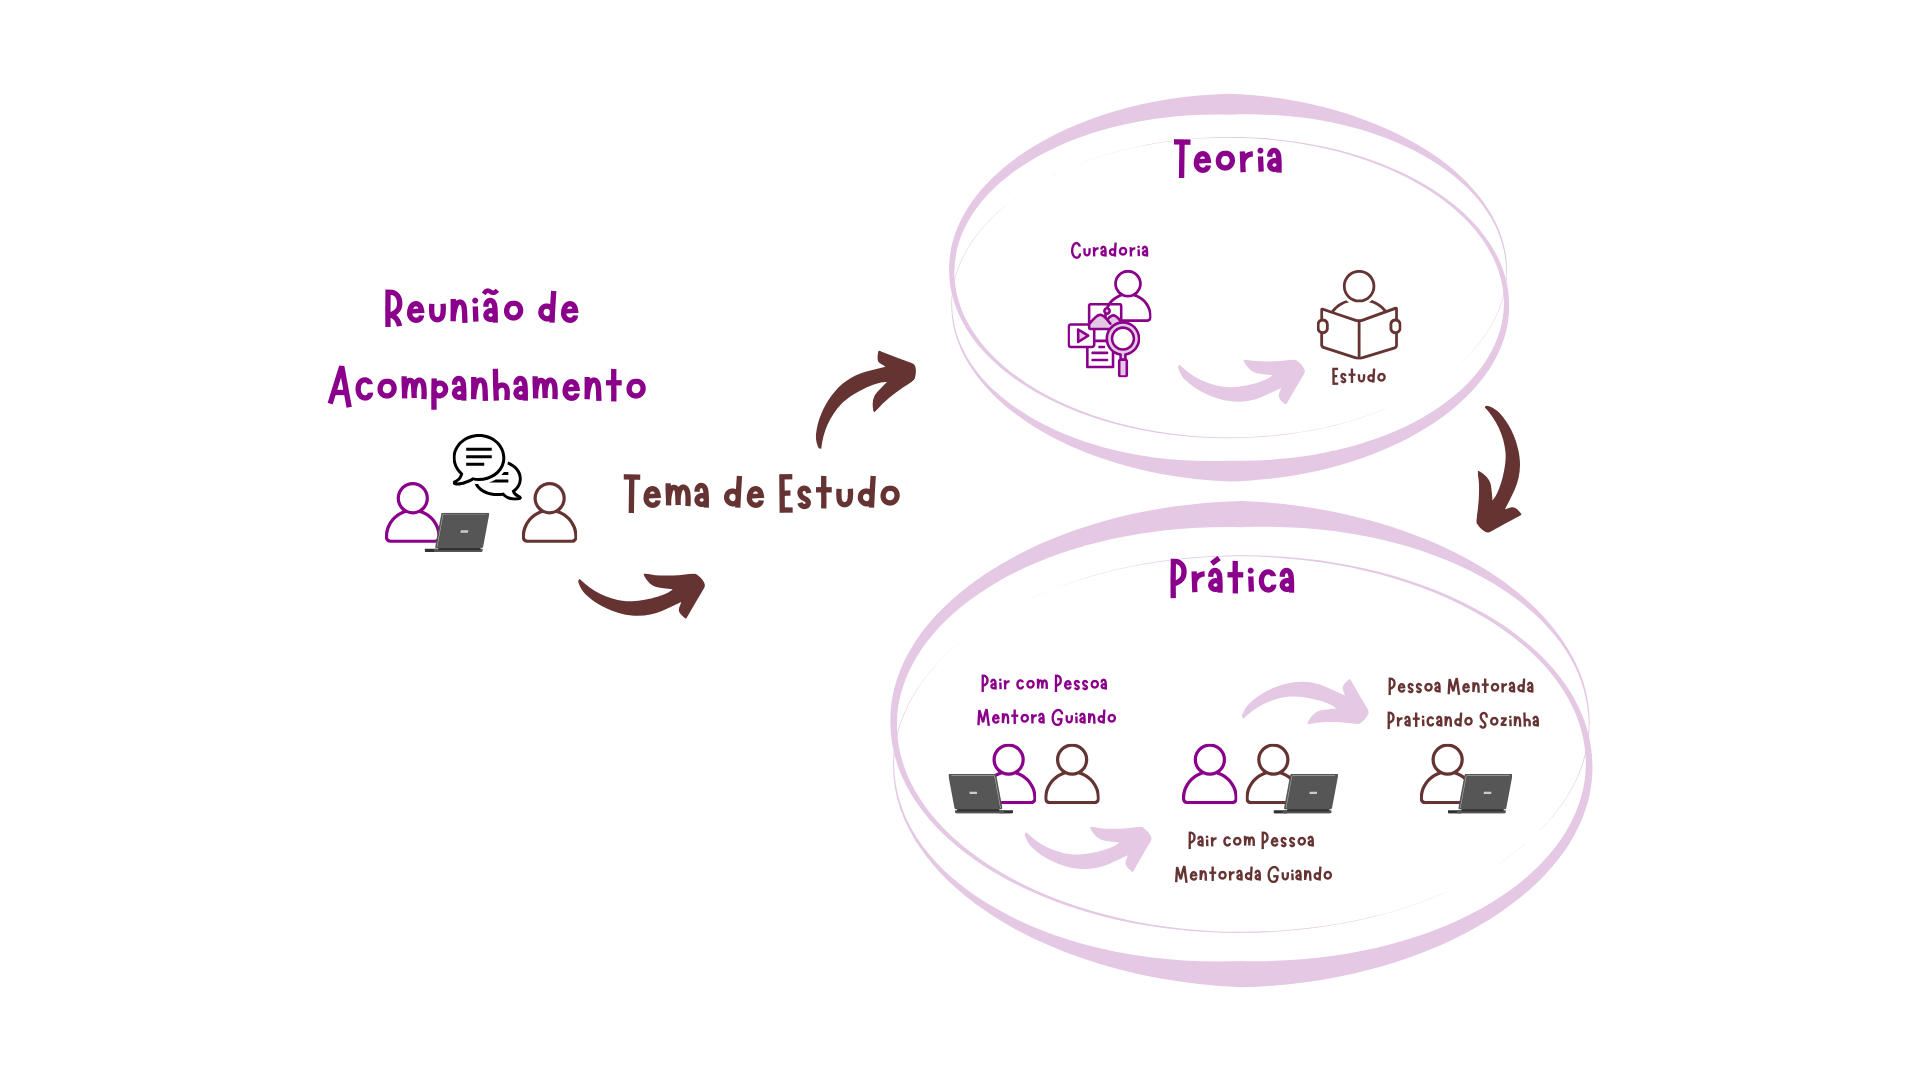
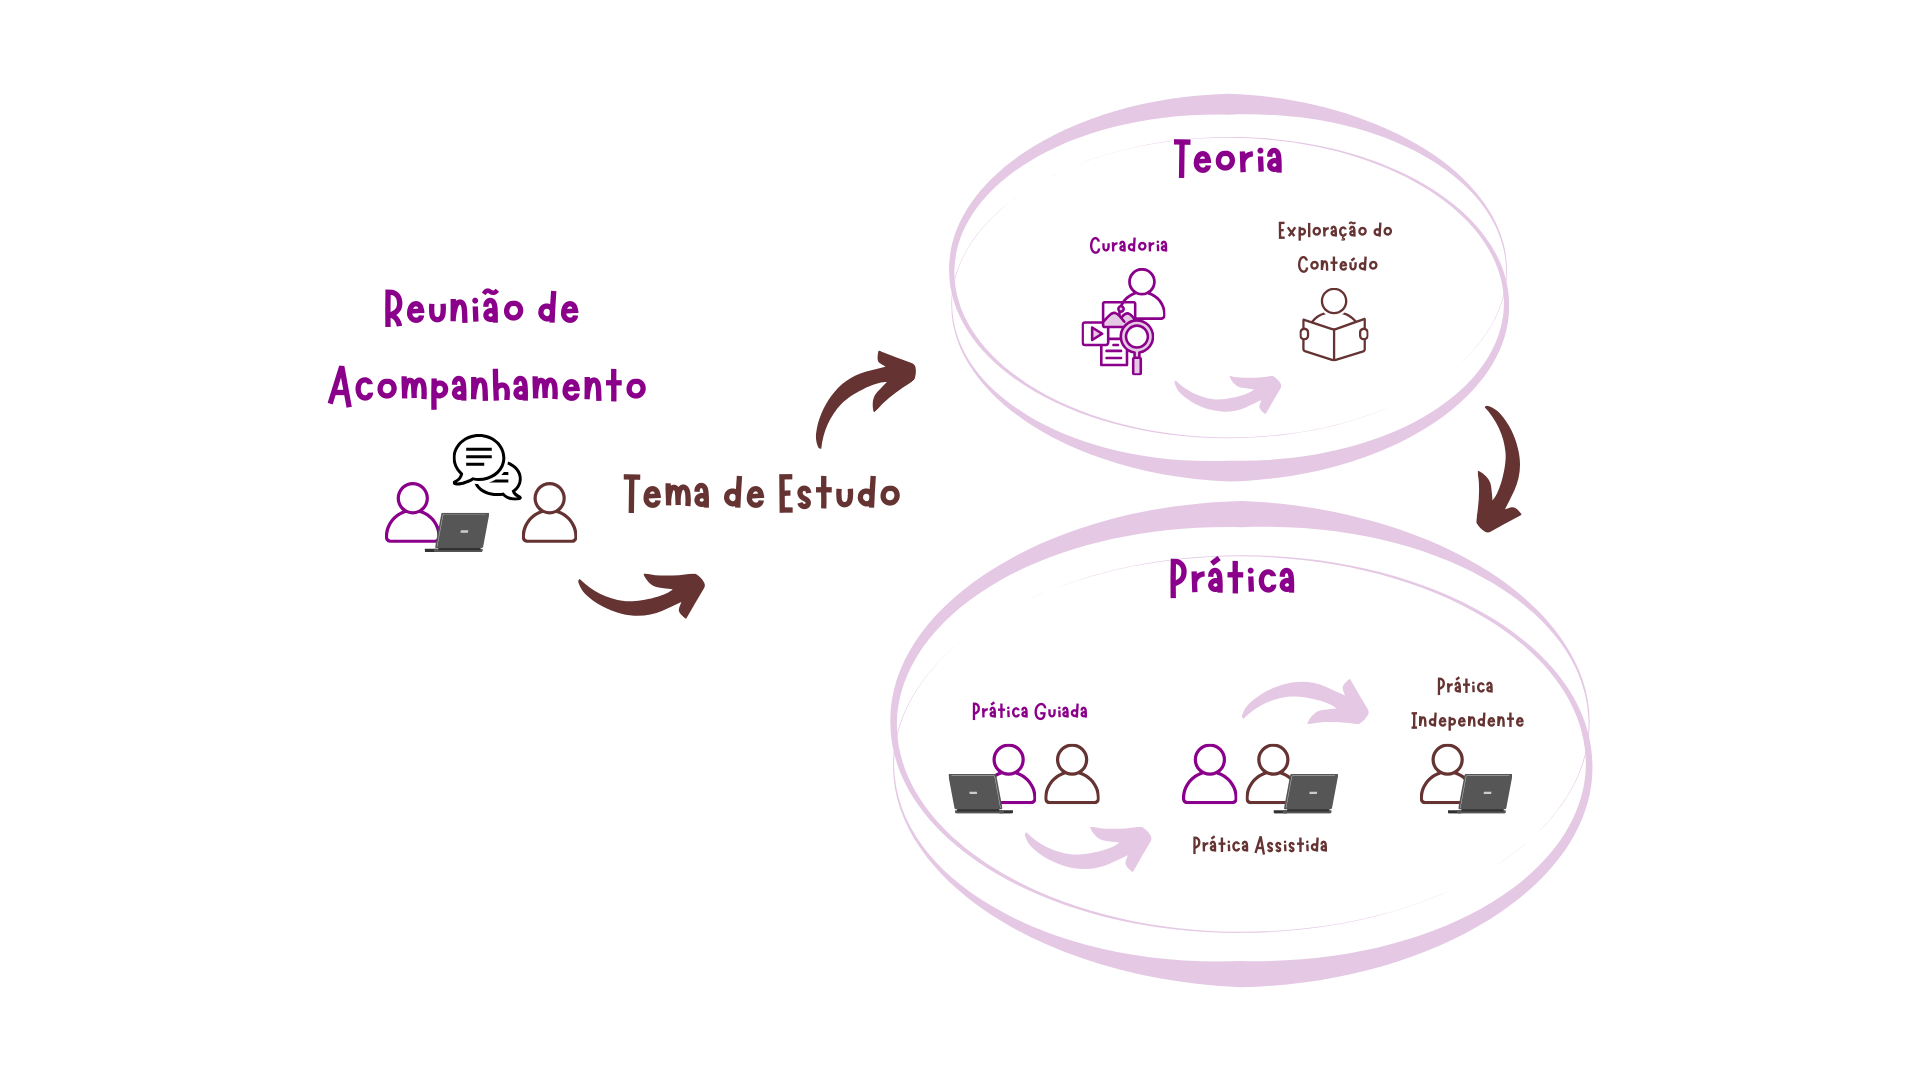
Trocando nomes das etapas

diff --git a/mentoria/metodologia/README.md b/mentoria/metodologia/README.md
@@ -25,24 +25,34 @@ entender as necessidades da pessoa mentorada e definir os temas de aprendizado. 
 tem a ser estudado é abordado através de **teoria** e **prática**. Abaixo, estão os passos
 detalhados de cada etapa.
 
-![Screenshot do site curadoria.cumbuca.dev](/assets/Fluxo%20da%20Mentoria.png)
+![Diagrama do Fluxo de Mentoria, detalhando cada etapa](/assets/Fluxo%20da%20Mentoria.png)
 
 ### 1. Reuniões de Acompanhamento
 
 **Objetivo**: Identificar as necessidades e definir o plano de aprendizado.
 
-- Em intervalos regulares, a pessoa mentora e a pessoa mentorada realizam reuniões para avaliar o
-  progresso geral, entender as principais necessidades e definir quais assuntos devem ser estudados
-  nas próximas etapas. Esse acompanhamento inicial é essencial para alinhar expectativas e garantir
-  que os temas de aprendizado estejam de acordo com os objetivos da pessoa mentorada.
+Em intervalos regulares, a pessoa mentora e a pessoa mentorada realizam reuniões para avaliar o
+progresso geral, entender as principais necessidades e definir quais assuntos devem ser estudados
+nas próximas etapas. Esse acompanhamento inicial é essencial para alinhar expectativas e garantir
+que os temas de aprendizado estejam de acordo com os objetivos da pessoa mentorada.
 
 ### 2. Teoria
 
 **Objetivo**: Fornecer uma base sólida de conhecimento para o tema abordado.
 
-- **Curadoria de Conteúdo**: A pessoa mentora seleciona materiais relevantes, como artigos, vídeos,
-  documentações e outros recursos de qualidade, organizados para otimizar o aprendizado da pessoa
-  mentorada.
+A prática é dividida em dois momentos principais:
+
+- Curadoria de Conteúdo
+- Exploração do Conteúdo
+
+#### 2.1 Curadoria de Conteúdo
+
+A pessoa mentora seleciona artigos, vídeos, documentações e outros recursos relevantes,
+organizando-os de modo a otimizar o aprendizado.
+
+#### 2.1 Exploração do Conteúdo
+
+A pessoa mentorada explora o conteúdo selecionado, absorvendo a base teórica necessária.
 
 ### 3. Prática
 
@@ -51,19 +61,23 @@ de aprendizado guiado e colaborativo.
 
 A prática é dividida em três momentos principais:
 
-#### 3.1 Pair Programming com Pessoa Mentora Guiando
+- Prática Guiada
+- Prática Assistida
+- Prática Independente
+
+#### 3.1 Prática Guiada
 
 Neste estágio, a pessoa mentora conduz a prática, explicando e demonstrando as melhores abordagens
 para resolver problemas no tema em estudo. A pessoa mentorada acompanha e participa, observando como
 o conhecimento teórico é aplicado na prática.
 
-#### 3.2 Pair Programming com Pessoa Mentorada Guiando
+#### 3.2 Prática Assistida
 
 Agora, a pessoa mentorada assume o controle, guiando a resolução de problemas enquanto a pessoa
 mentora oferece suporte e feedback. Esse estágio promove a autonomia e ajuda a pessoa mentorada a
 ganhar confiança nas suas habilidades.
 
-#### 3.3 Pessoa Mentorada Praticando Sozinha
+#### 3.3 Prática Independente
 
 A etapa final é realizada de forma independente pela pessoa mentorada, sem acompanhamento direto.
 Isso reforça a autossuficiência e permite avaliar o domínio completo do tema.
